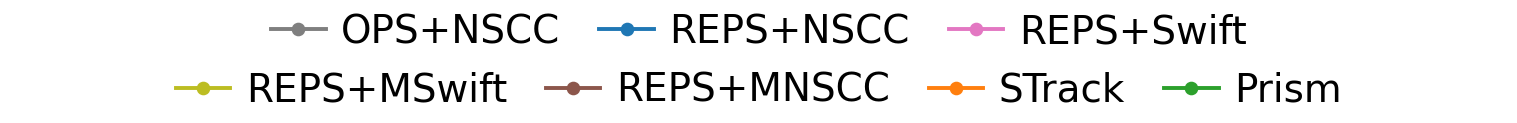
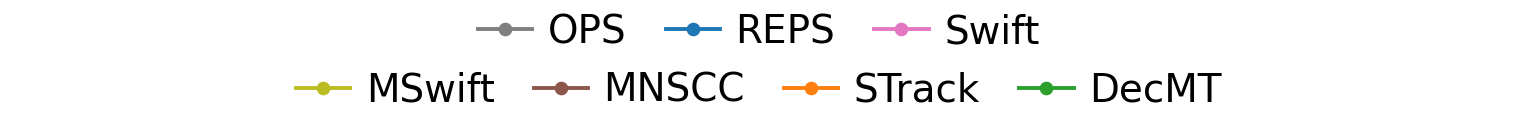
style: shorten delay-driven legend labels

Changed region(s): [[0.0929, 0.5854, 0.8985, 0.8293], [0.1549, 0.0976, 0.8365, 0.3659]]

diff --git a/htsim/sim/datacenter/prism_eval/expA_delaydriven/make_figs.py b/htsim/sim/datacenter/prism_eval/expA_delaydriven/make_figs.py
@@ -17,6 +17,12 @@ BASELINES = [("ops", "OPS+NSCC", "ops"), ("reps", "REPS+NSCC", "reps"),
              ("swift", "REPS+Swift", "swift"), ("mswift", "REPS+MSwift", "mswift"),
              ("mnscc", "REPS+MNSCC", "mnscc"), ("strack", "STrack", "strack"),
              ("prism", "Prism", "prism")]
+# The standalone paper legend uses short display labels without changing the
+# names printed on the performance panels.
+LEGEND_BASELINES = [("ops", "OPS", "ops"), ("reps", "REPS", "reps"),
+                    ("swift", "Swift", "swift"), ("mswift", "MSwift", "mswift"),
+                    ("mnscc", "MNSCC", "mnscc"), ("strack", "STrack", "strack"),
+                    ("prism", "DecMT", "prism")]
 LAPS_BASELINES = [("ops", "OPS+NSCC", "ops"), ("reps", "REPS+NSCC", "reps"),
                   ("swift", "REPS+Swift", "swift"), ("mswift", "REPS+MSwift", "mswift"),
                   ("mnscc", "REPS+MNSCC", "mnscc"), ("strack", "STrack", "strack"),
@@ -44,7 +50,7 @@ if __name__ == "__main__":
     else:
         os.makedirs(FIGS, exist_ok=True)
         perf_figs.render_main_perf_split(DATA, FIGS, "expA", BASELINES, FAILED, SEEDS, "figA1dd", XLABEL, goodput_tbps=True)
-        perf_figs.render_legend(FIGS, BASELINES, "figA1dd_legend", row_counts=[3, 4])
+        perf_figs.render_legend(FIGS, LEGEND_BASELINES, "figA1dd_legend", row_counts=[3, 4])
         perf_figs.render_fairness(DATA, FIGS, "expA", BASELINES, FAILED, SEEDS, "figA1dd_fairness", XLABEL)
         perf_figs.render_mechanism_split(DATA, FIGS, "expA", "figA2dd", 8, xlim_ms=3.0)
         perf_figs.render_decomposition(DATA, FIGS, "expA",
